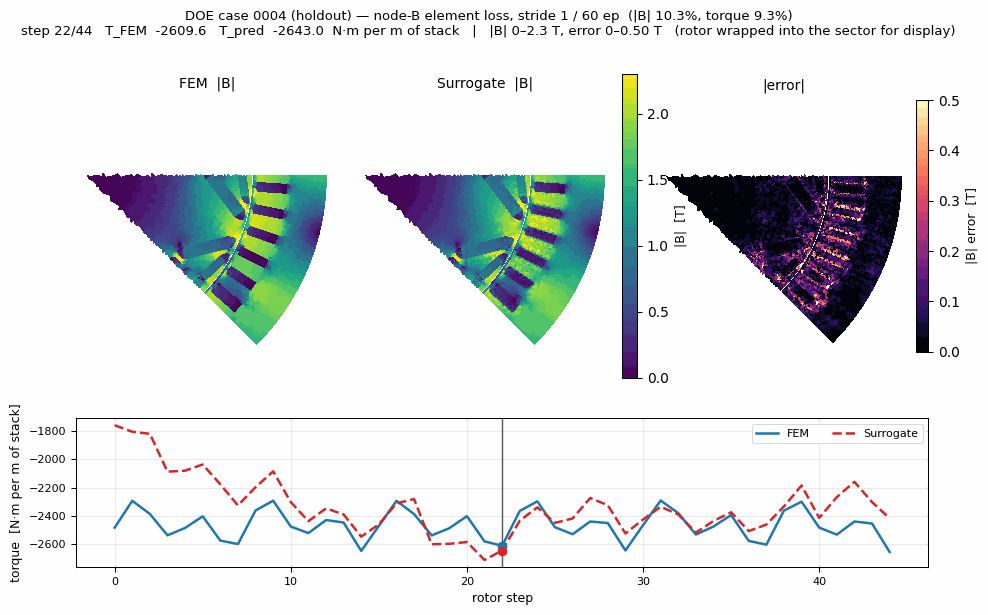
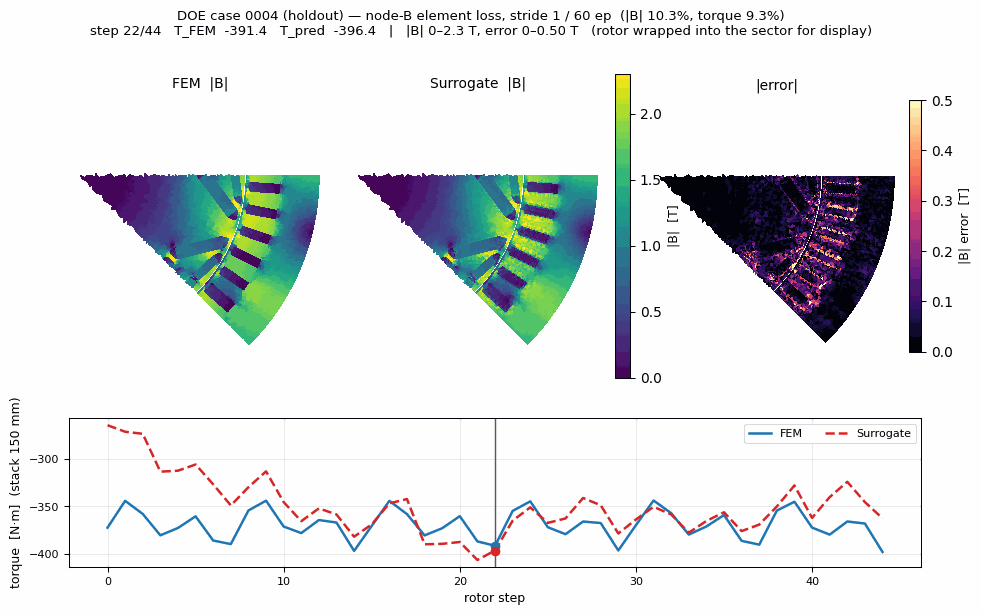
[VIZ] 토크 축을 실제 적층장 기준 N.m으로 표기 + Motor-CAD 대조 기록
"우리 FEM 파형이 Motor-CAD와 다르다"는 지적 조사 결과: 연산자는 맞고
표기 단위가 달랐다. 우리 곡선은 Motor-CAD 네이티브 토크가 아니라
하니스의 Arkkio 적분값이며, 단위가 N.m per m of stack이었다. 이 설계의
적층장은 150 mm(.mot의 Stator_Lam_Length)이므로 6.67배 차이가 난다.

.mot에서 교차 확인: MagneticSymmetryFactor=8(우리가 섹터 span에서 도출한
값과 일치), Pole_Number=8/Slot_Number=48, PeakCurrent와 PhaseAdvance가
backup case_0004와 동일, TorquePointsPerCycle=45. 45스텝 x 2도 = 90도
기계각 = 8극의 1 전기사이클로 스텝-사이클도 정합한다.

내부 일관성 검증: 4개 공극층을 독립 적분하니 a1/a3/a4가 0.04% 이내,
공극 1mm 통합값과 a1 단독이 0.1% 차이. "한 겹 밴드라 부정확"이라는
우려는 기각.

Motor-CAD의 E-Magnetic 온로드 토크 파형 자체는 export에 없다(.mot에는
Lab 포락선만, 과도해석 토크는 바이너리 .mes). 절대 대조는 Motor-CAD에서
재추출해야 한다.

G2 게이트는 영향 없음: nrmse_torque_pct는 분자·분모가 모두 적층장에
비례해 스케일 불변이다. 기존 토크 지표는 재보정 불필요.

diff --git a/tools/make_field_gif.py b/tools/make_field_gif.py
@@ -57,7 +57,8 @@ from phase1_static.sector_symmetry import (  # noqa: E402
 )
 
 
-def compute_frames(record, predictor, steps: List[int], wrap_display: bool = True):
+def compute_frames(record, predictor, steps: List[int], wrap_display: bool = True,
+                   axial_length_m: float = 0.150):
     """Per-step FEM/predicted |B|, the validity mask and both torque curves.
 
     `wrap_display` folds the rigid rotor back into the modelled sector **for
@@ -112,8 +113,8 @@ def compute_frames(record, predictor, steps: List[int], wrap_display: bool = Tru
                 "valid": valid,
                 "b_fem": np.hypot(bx_t, by_t),
                 "b_pred": np.hypot(pred[:, 0], pred[:, 1]),
-                "t_fem": arkkio_torque(band, bx_t, by_t),
-                "t_pred": arkkio_torque(band, pred[:, 0], pred[:, 1]),
+                "t_fem": arkkio_torque(band, bx_t, by_t, axial_length_m),
+                "t_pred": arkkio_torque(band, pred[:, 0], pred[:, 1], axial_length_m),
             }
         )
     return frames
@@ -165,8 +166,11 @@ def _panel(ax, triang, values, vmin, vmax, cmap, title):
 
 
 def render(
-    frames, case_index: int, out_path: Path, fps: float, label: str, wrap_note: str = ""
+    frames, case_index: int, out_path: Path, fps: float, label: str, wrap_note: str = "",
+    axial_length_m: float = 0.150,
 ) -> Tuple[Path, float, float]:
+    torque_unit = ("torque  [N·m per m of stack]" if axial_length_m == 1.0
+                   else f"torque  [N·m]  (stack {axial_length_m * 1e3:.0f} mm)")
     # One scale for FEM and prediction so the two panels are comparable, and a
     # separate one for the error. p99 rather than max keeps a handful of
     # saturated tooth-tip elements from flattening the rest of the picture.
@@ -209,7 +213,7 @@ def render(
         axt.plot([f["step"]], [t_fem[k]], "o", color="#1f77b4", ms=6)
         axt.plot([f["step"]], [t_pred[k]], "o", color="#d62728", ms=6)
         axt.set_xlabel("rotor step", fontsize=9)
-        axt.set_ylabel("torque  [N·m per m of stack]", fontsize=9)
+        axt.set_ylabel(torque_unit, fontsize=9)
         axt.legend(loc="upper right", fontsize=8, ncol=2)
         axt.grid(alpha=0.25)
         axt.tick_params(labelsize=8)
@@ -217,7 +221,7 @@ def render(
         fig.suptitle(
             f"DOE case {case_index:04d} (holdout) — {label}\n"
             f"step {f['step']:02d}/{steps.max():02d}   "
-            f"T_FEM {t_fem[k]:8.1f}   T_pred {t_pred[k]:8.1f}  N·m per m of stack   |   "
+            f"T_FEM {t_fem[k]:7.1f}   T_pred {t_pred[k]:7.1f}   |   "
             f"|B| 0–{vmax:.1f} T, error 0–{emax:.2f} T{wrap_note}",
             fontsize=9.5,
         )
@@ -250,6 +254,10 @@ def main() -> int:
     parser.add_argument("--max-steps", type=int, default=None)
     parser.add_argument("--fps", type=float, default=6.0)
     parser.add_argument("--label", type=str, default="")
+    parser.add_argument("--axial-length-m", type=float, default=0.150,
+                        help="Stack length for the torque axis. 0.150 m is "
+                             "Stator_Lam_Length from the Motor-CAD .mot for this design; "
+                             "pass 1.0 to plot torque per metre of stack instead")
     parser.add_argument("--no-wrap-display", action="store_true",
                         help="Draw the rotor at its raw exported (unwrapped) position, "
                              "which separates it from the stator on screen")
@@ -268,7 +276,8 @@ def main() -> int:
     print(f"case {args.case}: {len(steps)} frames from {len(record.samples)} steps")
 
     wrap = not args.no_wrap_display
-    frames = compute_frames(record, predictor, steps, wrap_display=wrap)
+    frames = compute_frames(record, predictor, steps, wrap_display=wrap,
+                            axial_length_m=args.axial_length_m)
     for f in frames:
         if f.get("draw_tri") is None:
             f["draw_tri"] = record.mesh.tri
@@ -276,6 +285,7 @@ def main() -> int:
     out, vmax, emax = render(
         frames, args.case, args.out, args.fps,
         args.label or Path(args.ckpt).stem,
+        axial_length_m=args.axial_length_m,
         wrap_note="   (rotor wrapped into the sector for display)" if wrap else "",
     )
     size_mb = out.stat().st_size / 1e6
@@ -283,7 +293,8 @@ def main() -> int:
     t_pred = np.array([f["t_pred"] for f in frames])
     print(f"wrote {out}  ({size_mb:.2f} MB, {len(frames)} frames)")
     print(f"  |B| scale 0-{vmax:.1f} T, error scale 0-{emax:.2f} T")
-    print(f"  mean torque  FEM {t_fem.mean():.1f}  pred {t_pred.mean():.1f} N.m/m")
+    print(f"  mean torque  FEM {t_fem.mean():.1f}  pred {t_pred.mean():.1f}  "
+          f"(stack {args.axial_length_m * 1e3:.0f} mm)")
     return 0
 
 
